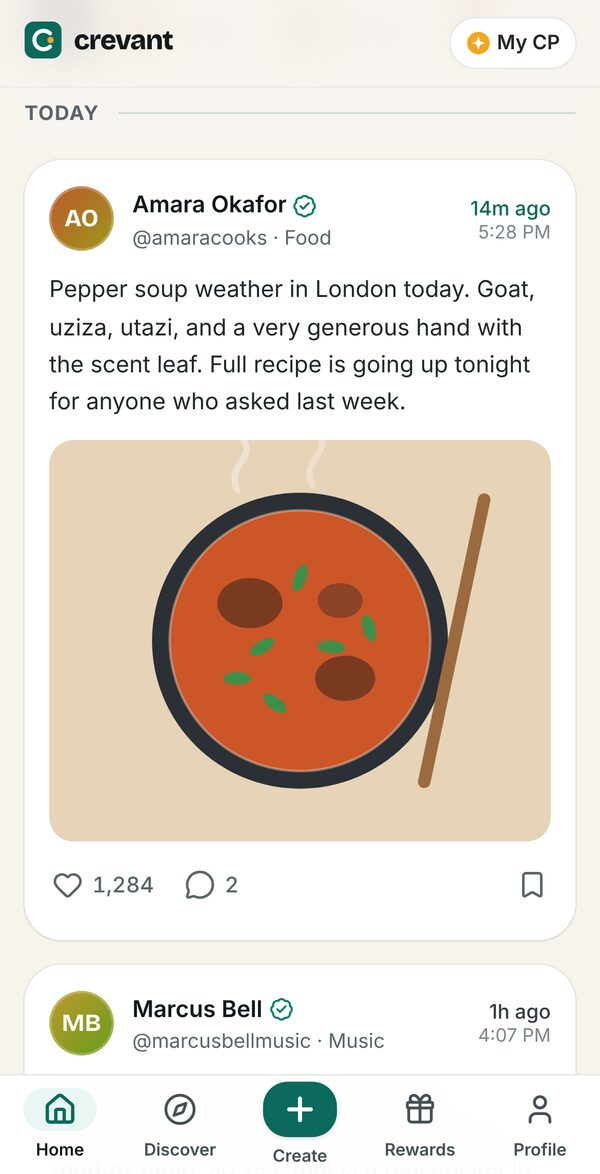
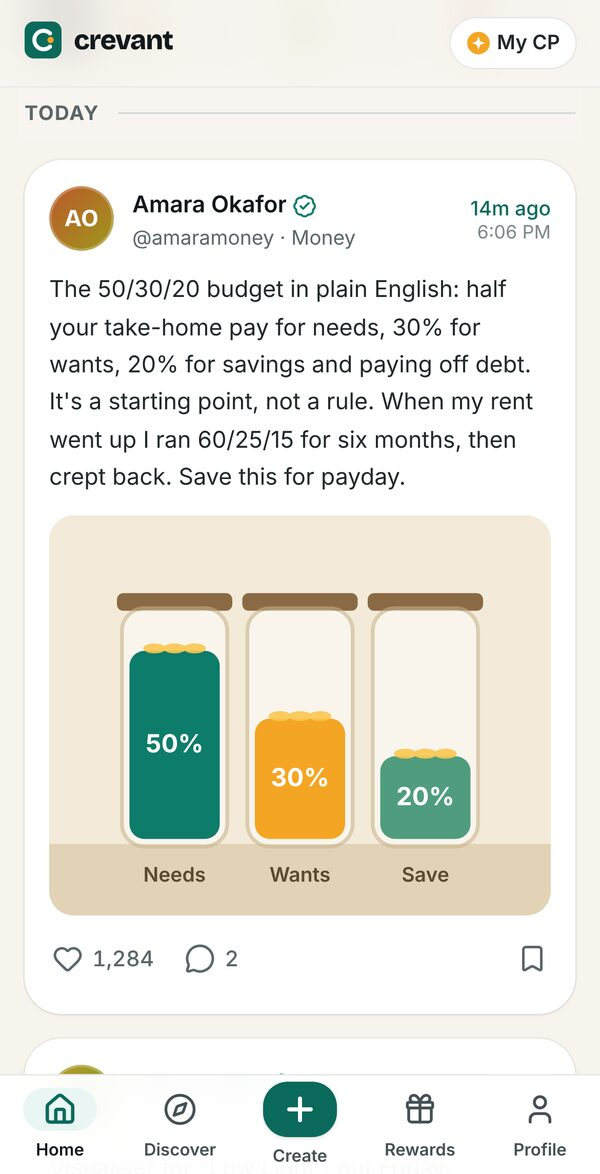
Landing V1: mobile-first hero and a coherent sample tour story
Mobile hero: on phones the order is now the headline, the "Meet Crevant"
product sentence, the product preview, both actions and the notes, then
the rest of the approved hero copy. Copy is unchanged, only reordered on
small screens, with slightly smaller type there. The desktop layout is
unchanged. Explore Crevant is full width on phones like Join.

Sample tour story: Amara Okafor, the creator followed in every landing
screenshot, is now a fictional London personal finance educator
(@amaramoney, new "Money" topic). Her 50/30/20 budgeting post has a
code-drawn "three jars" illustration; supporters ask how to split a
changing freelance income and share starting at 10%; her rewards are a
payday budget template and a seat at a live budgeting Q&A. Connection
Points stay creator-specific and noncash; no new features. Other
creators are unchanged, and the tour banner still says everything is
made up.

All tour screenshots recaptured. Tests: a seed test keeps Amara's story
consistent and free of the old food content; the landing browser test
checks the mobile hero order, that the preview appears within the first
two screens, and that desktop keeps text left and the phone right; the
Release 1 tour test uses the new reward titles.

Claude-Session: https://claude.ai/code/session_01CUaEFqiBbRqT7dfbKvVRCe

diff --git a/src/data/seed.ts b/src/data/seed.ts
@@ -20,13 +20,13 @@ export const CREATORS: Creator[] = [
   {
     id: 'amara',
     name: 'Amara Okafor',
-    handle: 'amaracooks',
-    category: 'Food',
-    bio: 'Weeknight West African cooking from a tiny London kitchen. Big flavour, short shopping lists.',
+    handle: 'amaramoney',
+    category: 'Money',
+    bio: 'Money skills for real life. Budgeting, saving and paying off debt, one small habit at a time.',
     location: 'London, UK',
     baseFollowers: 48210,
     hue: 18,
-    cover: 'bowl',
+    cover: 'budget',
   },
   {
     id: 'theo',
@@ -126,8 +126,8 @@ const SEED_POSTS: SeedPost[] = [
     id: 'p_amara_1',
     creatorId: 'amara',
     minutesAgo: 14,
-    text: 'Pepper soup weather in London today. Goat, uziza, utazi, and a very generous hand with the scent leaf. Full recipe is going up tonight for anyone who asked last week.',
-    media: { type: 'art', art: 'bowl', alt: 'Illustration of a steaming bowl of soup seen from above' },
+    text: 'The 50/30/20 budget in plain English: half your take-home pay for needs, 30% for wants, 20% for savings and paying off debt. It\'s a starting point, not a rule. When my rent went up I ran 60/25/15 for six months, then crept back. Save this for payday.',
+    media: { type: 'art', art: 'budget', alt: 'Illustration of three savings jars labelled needs 50%, wants 30% and save 20%' },
     likes: 1284,
     saves: 412,
   },
@@ -196,7 +196,7 @@ const SEED_POSTS: SeedPost[] = [
     id: 'p_amara_2',
     creatorId: 'amara',
     minutesAgo: 1420,
-    text: 'Small tip that changed my jollof: fry the tomato and pepper base until the oil separates and it turns brick red. That is the flavour. Rushing this step is why it tastes "raw".',
+    text: 'Small habit that changed my money: every Sunday morning I check my balance with a coffee. Five minutes, no judgement, just looking. You can\'t fix what you don\'t see.',
     likes: 3120,
     saves: 1902,
   },
@@ -264,8 +264,7 @@ const SEED_POSTS: SeedPost[] = [
     id: 'p_amara_3',
     creatorId: 'amara',
     minutesAgo: 4300,
-    text: 'Suya spice, my ratio: 4 parts ground kuli kuli, 1 part each of ginger, garlic, and paprika, a pinch of cayenne, half a stock cube crushed in. Keeps for a month in a jar.',
-    media: { type: 'art', art: 'citrus', alt: 'Illustration of sliced citrus and spices' },
+    text: 'Your emergency fund doesn\'t have to start at three months of expenses. Start with £500. That one buffer turns a broken boiler from a crisis into an inconvenience.',
     likes: 2788,
     saves: 2201,
   },
@@ -363,7 +362,7 @@ export function buildSeedPosts(seededAt: number): Post[] {
 
 const FANS = [
   { name: 'Lena Brooks', handle: 'lenab', hue: 190 },
-  { name: 'Dami Adeyemi', handle: 'damicooks', hue: 25 },
+  { name: 'Dami Adeyemi', handle: 'damiadeyemi', hue: 25 },
   { name: 'Chris Ortega', handle: 'chriso', hue: 280 },
   { name: 'Yuki Tan', handle: 'yukitan', hue: 330 },
   { name: 'Sam Patel', handle: 'sampatel', hue: 120 },
@@ -372,8 +371,8 @@ const FANS = [
 ]
 
 const SEED_COMMENTS: Array<{ postId: string; fan: number; minutesAgo: number; text: string }> = [
-  { postId: 'p_amara_1', fan: 1, minutesAgo: 9, text: 'Finally! My mum makes it with catfish, going to try goat this time.' },
-  { postId: 'p_amara_1', fan: 0, minutesAgo: 6, text: 'Where do you find utazi in London? Asking for a very hungry friend.' },
+  { postId: 'p_amara_1', fan: 1, minutesAgo: 9, text: 'Tried this last month. 20% felt impossible, so I started at 10% and moved it on payday automatically. Still counts!' },
+  { postId: 'p_amara_1', fan: 0, minutesAgo: 6, text: 'How do you split it when your income changes every month? I freelance, so some months are tiny.' },
   { postId: 'p_priya_1', fan: 2, minutesAgo: 30, text: 'Love that you share the broken streaks too. Makes the wins feel real.' },
   { postId: 'p_marcus_1', fan: 3, minutesAgo: 70, text: 'The cricket is the best feature on the track honestly.' },
   { postId: 'p_marcus_1', fan: 6, minutesAgo: 52, text: 'Rhodes at 2am hits different. Friday cannot come soon enough.' },
@@ -381,7 +380,7 @@ const SEED_COMMENTS: Array<{ postId: string; fan: number; minutesAgo: number; te
   { postId: 'p_sofia_1', fan: 5, minutesAgo: 200, text: 'Watched it six times. The last second really is the best.' },
   { postId: 'p_jordan_1', fan: 0, minutesAgo: 300, text: 'Needed this. I have been "easy running" at race pace for a month.' },
   { postId: 'p_hana_1', fan: 3, minutesAgo: 420, text: 'Adding it to my list. Have you read Hotel Iris?' },
-  { postId: 'p_amara_2', fan: 2, minutesAgo: 1300, text: 'This is exactly why mine never tasted like my aunt’s. Thank you.' },
+  { postId: 'p_amara_2', fan: 2, minutesAgo: 1300, text: 'Sunday money check is now a thing in our house. My partner and I do it together.' },
   { postId: 'p_sofia_2', fan: 6, minutesAgo: 1500, text: 'Weather as a seed is such a beautiful idea.' },
   { postId: 'p_me_1', fan: 4, minutesAgo: 2200, text: 'The second one is perfect. Would buy a print of this.' },
   { postId: 'p_me_1', fan: 0, minutesAgo: 2100, text: 'Porto light is unreal. Lovely page.' },
@@ -412,7 +411,7 @@ type SeedReward = Omit<Reward, 'createdAt'> & { daysAgo: number }
 
 const SEED_REWARDS: SeedReward[] = [
   { id: 'r_theo_wall', creatorId: 'theo', title: 'Arctic wallpaper pack', description: 'Twelve phone and desktop wallpapers from the Kungsleden trip.', cost: 15, kind: 'digital', stock: null, claimedByOthers: 318, daysAgo: 20 },
-  { id: 'r_amara_card', creatorId: 'amara', title: 'Family recipe card: slow jollof', description: 'The printable recipe card my aunt wrote out for me, with my notes in the margins.', cost: 15, kind: 'digital', stock: null, claimedByOthers: 902, daysAgo: 30 },
+  { id: 'r_amara_card', creatorId: 'amara', title: 'Payday budget template', description: 'The spreadsheet I fill in every payday, with my notes on how to adjust the split.', cost: 15, kind: 'digital', stock: null, claimedByOthers: 902, daysAgo: 30 },
   { id: 'r_hana_list', creatorId: 'hana', title: 'Annotated reading list', description: 'Twenty translated novels with a short note on why each one stayed with me.', cost: 15, kind: 'digital', stock: null, claimedByOthers: 144, daysAgo: 12 },
   { id: 'r_kofi_guide', creatorId: 'kofi', title: 'Balcony seed starting guide', description: 'My step by step guide for starting seeds in small spaces, with a planting calendar.', cost: 15, kind: 'digital', stock: null, claimedByOthers: 87, daysAgo: 9 },
   { id: 'r_sofia_sketch', creatorId: 'sofia', title: 'Behind the algorithm sketchbook', description: 'A digital flip through of the notebook where each generative series starts.', cost: 20, kind: 'access', stock: null, claimedByOthers: 210, daysAgo: 15 },
@@ -423,7 +422,7 @@ const SEED_REWARDS: SeedReward[] = [
   { id: 'r_marcus_stems', creatorId: 'marcus', title: 'Unreleased stems pack', description: 'Stems from three unreleased beats for you to remix for personal use.', cost: 20, kind: 'digital', stock: null, claimedByOthers: 1204, daysAgo: 25 },
   { id: 'r_sofia_print', creatorId: 'sofia', title: 'Signed digital edition', description: 'A numbered, high resolution file from the Grid Weather series with a signed certificate.', cost: 100, kind: 'digital', stock: 20, claimedByOthers: 14, daysAgo: 3 },
   { id: 'r_jordan_form', creatorId: 'jordan', title: 'Running form check', description: 'Send a 20 second clip and get a short written review of your form.', cost: 90, kind: 'experience', stock: 10, claimedByOthers: 7, daysAgo: 4 },
-  { id: 'r_amara_live', creatorId: 'amara', title: 'Seat at a live cook along', description: 'One seat at a small online cook along. Ingredients list sent a week ahead.', cost: 120, kind: 'experience', stock: 12, claimedByOthers: 10, daysAgo: 2 },
+  { id: 'r_amara_live', creatorId: 'amara', title: 'Seat at a live budgeting Q&A', description: 'One seat at a small online Q&A where I answer your budgeting questions. Send yours a week ahead.', cost: 120, kind: 'experience', stock: 12, claimedByOthers: 10, daysAgo: 2 },
   { id: 'r_priya_call', creatorId: 'priya', title: '30 minute product chat', description: 'A short video call to talk through your side project or launch plan.', cost: 150, kind: 'experience', stock: 5, claimedByOthers: 4, daysAgo: 7 },
   { id: 'r_marcus_name', creatorId: 'marcus', title: 'Name a track on the next EP', description: 'Pick the title of one track on the next EP, credited in the liner notes.', cost: 150, kind: 'recognition', stock: 1, claimedByOthers: 0, daysAgo: 1 },
 ]

diff --git a/src/public/LandingPage.tsx b/src/public/LandingPage.tsx
@@ -36,10 +36,13 @@ function Qualifier({ testId, children }: { testId: string; children: ReactNode }
 
 function ExploreButton({ variant = 'secondary' }: { variant?: 'secondary' | 'ghost-dark' }) {
   return (
-    <div>
+    <div className="w-full min-[420px]:w-auto">
       <a
         href={TOUR_BASE}
-        className={variant === 'secondary' ? buttonClass('secondary', 'lg') : clsx(buttonClass('ghost', 'lg'), 'text-white ring-1 ring-white/25 hover:bg-white/10')}
+        className={clsx(
+          variant === 'secondary' ? buttonClass('secondary', 'lg') : clsx(buttonClass('ghost', 'lg'), 'text-white ring-1 ring-white/25 hover:bg-white/10'),
+          'w-full min-[420px]:w-auto',
+        )}
       >
         Explore Crevant
       </a>
@@ -59,27 +62,36 @@ function JoinButton() {
 // ---- 1. Hero ----------------------------------------------------------------
 
 function Hero() {
+  // Phones: headline, the one-line product explanation, the product preview,
+  // then the actions, then the rest of the approved hero copy. Desktop keeps
+  // the two-column layout (text left, phone right). Copy is unchanged; only
+  // the order differs on small screens.
   return (
-    <section id="hero" aria-labelledby="hero-title" className="overflow-hidden px-4 pb-14 pt-10 sm:px-6 sm:pt-16 lg:pb-20">
-      <div className="mx-auto grid max-w-6xl items-center gap-10 lg:grid-cols-[1.2fr_0.8fr]">
-        <div className="min-w-0">
-          <h1 id="hero-title" className="font-display text-[2.45rem] font-extrabold leading-[1.03] tracking-[-0.035em] text-ink-900 sm:text-[3.4rem] lg:text-[3.85rem]">
-            You earned the follow. <span className="text-brand-600">You deserve the reach.</span>
-          </h1>
-          <div className="mt-6 max-w-xl space-y-4 text-lg leading-relaxed text-ink-600">
-            <p>You worked hard to build your audience. But what good is having thousands of followers if you can't consistently reach them?</p>
-            <p>
-              <strong className="font-semibold text-ink-900">Meet Crevant.</strong> A creator-first social network where the people who choose to
-              follow you can see your content in their Following feed, so you can focus on building connections, earning trust and creating
-              opportunities for sustainable income.
-            </p>
-            <p>Because content creation should be more than a side hustle. It should have the potential to become a profession.</p>
-          </div>
-          <div className="mt-7 flex flex-col items-start gap-3 min-[420px]:flex-row min-[420px]:flex-wrap">
+    <section id="hero" aria-labelledby="hero-title" className="overflow-hidden px-4 pb-12 pt-8 sm:px-6 sm:pt-16 lg:pb-20">
+      <div className="mx-auto flex max-w-6xl flex-col lg:grid lg:grid-cols-[1.2fr_0.8fr] lg:items-center lg:gap-x-10">
+        <h1
+          id="hero-title"
+          className="order-1 font-display text-[2.15rem] lg:order-none font-extrabold leading-[1.04] tracking-[-0.035em] text-ink-900 min-[400px]:text-[2.45rem] sm:text-[3.4rem] lg:col-start-1 lg:text-[3.85rem]"
+        >
+          You earned the follow. <span className="text-brand-600">You deserve the reach.</span>
+        </h1>
+        <p data-hero="lead" className="order-4 mt-6 max-w-xl text-base leading-relaxed text-ink-600 sm:text-lg lg:order-none lg:col-start-1">
+          You worked hard to build your audience. But what good is having thousands of followers if you can't consistently reach them?
+        </p>
+        <p data-hero="product" className="order-2 mt-4 max-w-xl text-base leading-relaxed text-ink-600 sm:text-lg lg:order-none lg:col-start-1">
+          <strong className="font-semibold text-ink-900">Meet Crevant.</strong> A creator-first social network where the people who choose to follow
+          you can see your content in their Following feed, so you can focus on building connections, earning trust and creating opportunities for
+          sustainable income.
+        </p>
+        <p data-hero="profession" className="order-5 mt-4 max-w-xl text-base leading-relaxed text-ink-600 sm:text-lg lg:order-none lg:col-start-1">
+          Because content creation should be more than a side hustle. It should have the potential to become a profession.
+        </p>
+        <div data-hero="actions" className="order-3 mt-6 lg:order-none lg:col-start-1">
+          <div className="flex flex-col items-stretch gap-3 min-[420px]:flex-row min-[420px]:flex-wrap min-[420px]:items-start">
             <JoinButton />
             <ExploreButton />
           </div>
-          <p className="mt-5 max-w-xl text-sm italic leading-relaxed text-ink-500">An invitation-only platform being built for creators and their supporters.</p>
+          <p className="mt-4 max-w-xl text-sm italic leading-relaxed text-ink-500">An invitation-only platform being built for creators and their supporters.</p>
           <Qualifier testId="hero-note">
             Being built for the pilot. The Following feed shows posts from people you follow, newest first. It isn't a promise that each post reaches
             each follower.
@@ -91,9 +103,9 @@ function Hero() {
             </Link>
           </p>
         </div>
-        <div className="relative">
-          <div aria-hidden="true" className="absolute -inset-6 rounded-[48px] bg-gradient-to-br from-brand-100 via-paper to-spark-100 opacity-50" />
-          <TourScreenshot screen="feed" caption="The Following feed, newest first" priority className="relative max-w-[260px]" />
+        <div data-hero="preview" className="relative order-2 mt-6 lg:order-none lg:col-start-2 lg:row-span-5 lg:row-start-1 lg:mt-0">
+          <div aria-hidden="true" className="absolute -inset-4 rounded-[48px] bg-gradient-to-br from-brand-100 via-paper to-spark-100 opacity-50 lg:-inset-6" />
+          <TourScreenshot screen="feed" caption="The Following feed, newest first" priority className="relative max-w-[210px] sm:max-w-[240px] lg:max-w-[260px]" />
         </div>
       </div>
     </section>

diff --git a/src/data/seed.test.ts b/src/data/seed.test.ts
@@ -1,0 +1,37 @@
+import { describe, expect, it } from 'vitest'
+import { CREATORS, buildSeedComments, buildSeedPosts, buildSeedRewards } from './seed'
+
+// The landing page screenshots follow one fictional creator, Amara Okafor, a
+// personal finance educator. Her profile, posts, comments and rewards must tell
+// one consistent budgeting story.
+describe('sample tour story: Amara Okafor, personal finance educator', () => {
+  const amara = CREATORS.find((c) => c.id === 'amara')!
+  const posts = buildSeedPosts(Date.now()).filter((p) => p.creatorId === 'amara')
+  const comments = buildSeedComments(Date.now()).filter((c) => posts.some((p) => p.id === c.postId))
+  const rewards = buildSeedRewards(Date.now()).filter((r) => r.creatorId === 'amara')
+
+  it('is a money creator with a budgeting profile', () => {
+    expect(amara.name).toBe('Amara Okafor')
+    expect(amara.category).toBe('Money')
+    expect(amara.handle).toBe('amaramoney')
+    expect(amara.bio).toMatch(/budgeting/i)
+    expect(amara.cover).toBe('budget')
+  })
+  it('posts budgeting advice, led by the 50/30/20 post with its illustration', () => {
+    const lead = posts.find((p) => p.id === 'p_amara_1')!
+    expect(lead.text).toContain('50/30/20')
+    expect(lead.media).toMatchObject({ type: 'art', art: 'budget' })
+    for (const p of posts) expect(p.text).toMatch(/budget|money|balance|pay|fund|sav/i)
+  })
+  it('gets thoughtful supporter comments on that advice', () => {
+    expect(comments.filter((c) => c.postId === 'p_amara_1')).toHaveLength(2)
+    for (const c of comments) expect(c.text).toMatch(/budget|split|payday|income|money|%/i)
+  })
+  it('offers budgeting rewards, including a budgeting Q&A', () => {
+    expect(rewards.map((r) => r.title).sort()).toEqual(['Payday budget template', 'Seat at a live budgeting Q&A'])
+  })
+  it('leaves no food content from the old sample behind', () => {
+    const all = [amara.bio, ...posts.map((p) => p.text), ...comments.map((c) => c.text), ...rewards.map((r) => `${r.title} ${r.description}`)].join(' ')
+    expect(all).not.toMatch(/jollof|recipe|pepper soup|cook along|suya/i)
+  })
+})

diff --git a/src/components/Artwork.tsx b/src/components/Artwork.tsx
@@ -74,6 +74,37 @@ function Bowl() {
   )
 }
 
+/** Three savings jars for a needs, wants and savings budget split. */
+function Budget() {
+  const jars = [
+    { x: 58, h: 150, fill: '#0e7c6b', label: '50%', name: 'Needs' },
+    { x: 158, h: 96, fill: '#f5a524', label: '30%', name: 'Wants' },
+    { x: 258, h: 66, fill: '#4f9d7e', label: '20%', name: 'Save' },
+  ]
+  return (
+    <>
+      <rect width={W} height={H} fill="#f3ead9" />
+      <rect x="0" y="262" width={W} height="58" fill="#e2d2b6" />
+      {jars.map((j) => (
+        <g key={j.name}>
+          <rect x={j.x - 4} y="62" width="92" height="14" rx="5" fill="#8a6a45" />
+          <rect x={j.x} y="74" width="84" height="190" rx="18" fill="#ffffff" opacity="0.55" stroke="#c9b48f" strokeWidth="3" />
+          <rect x={j.x + 6} y={258 - j.h} width="72" height={j.h} rx="12" fill={j.fill} />
+          {[0, 1, 2].map((i) => (
+            <ellipse key={i} cx={j.x + 26 + i * 16} cy={258 - j.h - 2} rx="9" ry="4" fill="#f9c74f" opacity="0.9" />
+          ))}
+          <text x={j.x + 42} y={258 - j.h / 2 + 6} textAnchor="middle" fontSize="20" fontWeight="700" fill="#ffffff" fontFamily="Inter, system-ui, sans-serif">
+            {j.label}
+          </text>
+          <text x={j.x + 42} y="292" textAnchor="middle" fontSize="16" fontWeight="600" fill="#5b4a33" fontFamily="Inter, system-ui, sans-serif">
+            {j.name}
+          </text>
+        </g>
+      ))}
+    </>
+  )
+}
+
 function Citrus() {
   const slices = [
     [120, 120, 62, '#f5a524'],
@@ -272,6 +303,7 @@ const SCENES: Record<ArtworkKind, () => React.ReactElement> = {
   ridge: Ridge,
   coast: Coast,
   bowl: Bowl,
+  budget: Budget,
   citrus: Citrus,
   vinyl: Vinyl,
   keys: Keys,

diff --git a/src/pages/DiscoverPage.tsx b/src/pages/DiscoverPage.tsx
@@ -6,7 +6,7 @@ import { CreatorCard } from '../components/CreatorCard'
 import { EmptyState, PageHeader } from '../components/ui'
 import type { Category } from '../types'
 
-const CATEGORIES: Array<Category | 'All'> = ['All', 'Food', 'Travel', 'Tech', 'Music', 'Art', 'Fitness', 'Books', 'Wellness']
+const CATEGORIES: Array<Category | 'All'> = ['All', 'Food', 'Money', 'Travel', 'Tech', 'Music', 'Art', 'Fitness', 'Books', 'Wellness']
 
 export function DiscoverPage() {
   const { creators, state } = useStore()

diff --git a/src/pages/ProfilePage.tsx b/src/pages/ProfilePage.tsx
@@ -12,7 +12,7 @@ import { SELF_ID } from '../data/seed'
 import type { Category } from '../types'
 
 type Tab = 'posts' | 'saved' | 'following'
-const CATEGORIES: Category[] = ['Art', 'Books', 'Fitness', 'Food', 'Music', 'Tech', 'Travel', 'Wellness']
+const CATEGORIES: Category[] = ['Art', 'Books', 'Fitness', 'Food', 'Money', 'Music', 'Tech', 'Travel', 'Wellness']
 
 function EditProfile({ open, onClose }: { open: boolean; onClose: () => void }) {
   const { state, updateProfile, pushToast } = useStore()

diff --git a/src/types.ts b/src/types.ts
@@ -4,6 +4,7 @@
 
 export type Category =
   | 'Food'
+  | 'Money'
   | 'Travel'
   | 'Tech'
   | 'Music'
@@ -16,6 +17,7 @@ export type ArtworkKind =
   | 'ridge'
   | 'coast'
   | 'bowl'
+  | 'budget'
   | 'citrus'
   | 'vinyl'
   | 'keys'
